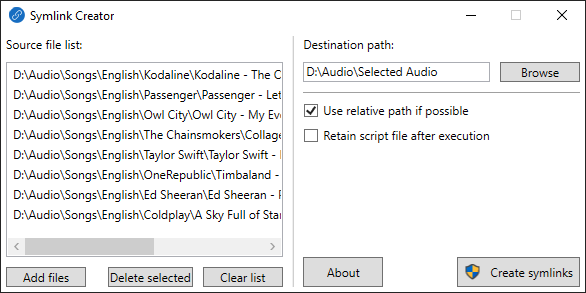
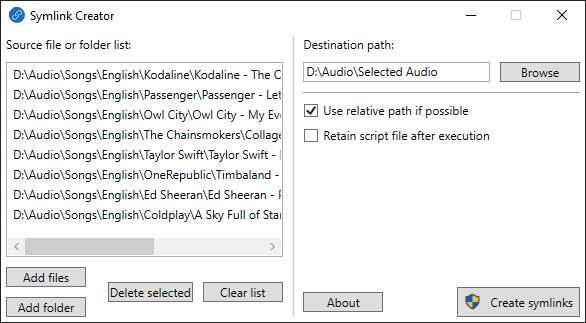
Folder symlink feature added
SymlinkCreator can now creates folder symlinks.

Changed region(s): [[0.0, 0.1229, 1.0, 1.0], [0.5222, 0.1229, 1.0, 0.4915], [0.0, 0.0, 0.9829, 0.0922]]

diff --git a/SymlinkCreator/ui/mainWindow/MainWindow.xaml b/SymlinkCreator/ui/mainWindow/MainWindow.xaml
@@ -10,16 +10,18 @@
         d:DataContext="{d:DesignData Type=local:MainWindowViewModel, IsDesignTimeCreatable=True}"
         Title="{x:Static core:ApplicationConfiguration.ApplicationName}"
         MinWidth="600"
-        MinHeight="250"
+        MinHeight="300"
         Width="600"
         Height="300">
     <Window.Resources>
         <Thickness x:Key="DefaultMargin">5</Thickness>
         <system:Double x:Key="DefaultMinButtonWidth">80</system:Double>
+        <system:Double x:Key="DefaultMinButtonHeight">20</system:Double>
 
         <Style TargetType="Button">
             <Setter Property="Margin" Value="{StaticResource DefaultMargin}" />
             <Setter Property="MinWidth" Value="{StaticResource DefaultMinButtonWidth}" />
+            <Setter Property="MinHeight" Value="{StaticResource DefaultMinButtonHeight}" />
         </Style>
 
         <Style TargetType="TextBlock">
@@ -53,10 +55,10 @@
                 <RowDefinition Height="Auto" />
             </Grid.RowDefinitions>
 
-            <TextBlock Grid.Row="0" Text="Source file list:" />
+            <TextBlock Grid.Row="0" Text="Source file or folder list:" />
 
-            <ListView Grid.Row="1" x:Name="SourceFileListView" ItemsSource="{Binding FileList}"
-                      AllowDrop="True" Drop="SourceFileListView_OnDrop">
+            <ListView Grid.Row="1" x:Name="SourceFileOrFolderListView" ItemsSource="{Binding FileOrFolderList}"
+                      AllowDrop="True" Drop="SourceFileOrFolderListView_OnDrop">
                 <ListView.ItemTemplate>
                     <DataTemplate>
                         <TextBlock Text="{Binding}" ToolTip="{Binding}" />
@@ -65,7 +67,16 @@
             </ListView>
 
             <DockPanel Grid.Row="2" LastChildFill="False">
-                <Button DockPanel.Dock="Left" Content="Add files" Click="AddButton_OnClick" />
+                <DockPanel.Resources>
+                    <Style TargetType="Button" BasedOn="{StaticResource {x:Type Button}}">
+                        <Setter Property="MaxHeight" Value="{StaticResource DefaultMinButtonHeight}" />
+                    </Style>
+                </DockPanel.Resources>
+
+                <StackPanel DockPanel.Dock="Left">
+                    <Button Content="Add files" Click="AddFilesButton_OnClick" />
+                    <Button Content="Add folder" Click="AddFolderButton_OnClick" />
+                </StackPanel>
 
                 <StackPanel DockPanel.Dock="Right" Orientation="Horizontal">
                     <Button Content="Delete selected" Click="DeleteSelectedButton_OnClick" />
@@ -122,7 +133,8 @@
                     </StackPanel>
                 </Button>
 
-                <Button Content="About" Click="AboutButton_OnClick" />
+                <Button Content="About" MaxHeight="{StaticResource DefaultMinButtonHeight}"
+                        Click="AboutButton_OnClick" />
             </DockPanel>
         </Grid>
     </Grid>

diff --git a/SymlinkCreator/ui/mainWindow/MainWindow.xaml.cs b/SymlinkCreator/ui/mainWindow/MainWindow.xaml.cs
@@ -49,7 +49,7 @@ namespace SymlinkCreator.ui.mainWindow
 
         #region control event handles
 
-        private void AddButton_OnClick(object sender, RoutedEventArgs e)
+        private void AddFilesButton_OnClick(object sender, RoutedEventArgs e)
         {
             OpenFileDialog fileDialog = new OpenFileDialog();
             fileDialog.Multiselect = true;
@@ -57,7 +57,20 @@ namespace SymlinkCreator.ui.mainWindow
 
             if (result == true)
             {
-                AddToSourceFileList(fileDialog.FileNames);
+                AddToSourceFileOrFolderList(fileDialog.FileNames);
+            }
+        }
+
+        private void AddFolderButton_OnClick(object sender, RoutedEventArgs e)
+        {
+            using (FolderBrowserDialog folderBrowserDialog = new FolderBrowserDialog())
+            {
+                DialogResult result = folderBrowserDialog.ShowDialog();
+
+                if (result == System.Windows.Forms.DialogResult.OK)
+                {
+                    AddToSourceFileOrFolderList(folderBrowserDialog.SelectedPath);
+                }
             }
         }
 
@@ -82,10 +95,10 @@ namespace SymlinkCreator.ui.mainWindow
             MainWindowViewModel mainWindowViewModel = this.DataContext as MainWindowViewModel;
             if (mainWindowViewModel == null) return;
 
-            List<string> selectedFileList = SourceFileListView.SelectedItems.Cast<string>().ToList();
-            foreach (var selectedItem in selectedFileList)
+            List<string> selectedFileOrFolderList = SourceFileOrFolderListView.SelectedItems.Cast<string>().ToList();
+            foreach (var selectedItem in selectedFileOrFolderList)
             {
-                mainWindowViewModel.FileList.Remove(selectedItem);
+                mainWindowViewModel.FileOrFolderList.Remove(selectedItem);
             }
         }
 
@@ -93,15 +106,15 @@ namespace SymlinkCreator.ui.mainWindow
         {
             MainWindowViewModel mainWindowViewModel = this.DataContext as MainWindowViewModel;
 
-            mainWindowViewModel?.FileList.Clear();
+            mainWindowViewModel?.FileOrFolderList.Clear();
         }
 
-        private void SourceFileListView_OnDrop(object sender, DragEventArgs e)
+        private void SourceFileOrFolderListView_OnDrop(object sender, DragEventArgs e)
         {
             if (e.Data.GetDataPresent(DataFormats.FileDrop))
             {
-                string[] droppedFileList = (string[]) e.Data.GetData(DataFormats.FileDrop);
-                AddToSourceFileList(droppedFileList);
+                string[] droppedFileOrFolderList = (string[]) e.Data.GetData(DataFormats.FileDrop);
+                AddToSourceFileOrFolderList(droppedFileOrFolderList);
             }
         }
 
@@ -129,7 +142,7 @@ namespace SymlinkCreator.ui.mainWindow
             if (mainWindowViewModel == null) return;
 
             SymlinkAgent symlinkAgent = new SymlinkAgent(
-                mainWindowViewModel.FileList,
+                mainWindowViewModel.FileOrFolderList,
                 mainWindowViewModel.DestinationPath,
                 mainWindowViewModel.ShouldUseRelativePath,
                 mainWindowViewModel.ShouldRetainScriptFile);
@@ -157,18 +170,28 @@ namespace SymlinkCreator.ui.mainWindow
 
         #region helper methods
 
-        private void AddToSourceFileList(IEnumerable<string> fileList)
+        private void AddToSourceFileOrFolderList(IEnumerable<string> fileOrFolderList)
         {
             MainWindowViewModel mainWindowViewModel = this.DataContext as MainWindowViewModel;
             if (mainWindowViewModel == null) return;
 
-            foreach (string file in fileList)
+            foreach (string fileOrFolder in fileOrFolderList)
             {
-                if (!mainWindowViewModel.FileList.Contains(file))
+                if (!mainWindowViewModel.FileOrFolderList.Contains(fileOrFolder))
                 {
-                    if (File.Exists(file))
-                        mainWindowViewModel.FileList.Add(file);
+                    mainWindowViewModel.FileOrFolderList.Add(fileOrFolder);
                 }
+            }
+        }
+
+        private void AddToSourceFileOrFolderList(string fileOrFolderPath)
+        {
+            MainWindowViewModel mainWindowViewModel = this.DataContext as MainWindowViewModel;
+            if (mainWindowViewModel == null) return;
+
+            if (!mainWindowViewModel.FileOrFolderList.Contains(fileOrFolderPath))
+            {
+                mainWindowViewModel.FileOrFolderList.Add(fileOrFolderPath);
             }
         }
 

diff --git a/SymlinkCreator/core/SymlinkAgent.cs b/SymlinkCreator/core/SymlinkAgent.cs
@@ -11,7 +11,7 @@ namespace SymlinkCreator.core
     {
         #region members
 
-        private readonly List<string> _sourceFileList;
+        private readonly List<string> _sourceFileOrFolderList;
         private string _destinationPath;
         private readonly bool _shouldUseRelativePath;
         private readonly bool _shouldRetainScriptFile;
@@ -23,10 +23,10 @@ namespace SymlinkCreator.core
 
         #region constructor
 
-        public SymlinkAgent(IEnumerable<string> sourceFileList, string destinationPath,
+        public SymlinkAgent(IEnumerable<string> sourceFileOrFolderList, string destinationPath,
             bool shouldUseRelativePath = true, bool shouldRetainScriptFile = false)
         {
-            this._sourceFileList = sourceFileList.ToList();
+            this._sourceFileOrFolderList = sourceFileOrFolderList.ToList();
             this._destinationPath = destinationPath;
             this._shouldUseRelativePath = shouldUseRelativePath;
             this._shouldRetainScriptFile = shouldRetainScriptFile;
@@ -59,7 +59,7 @@ namespace SymlinkCreator.core
             scriptExecutor.WriteLine(_splittedDestinationPath[0]);
             scriptExecutor.WriteLine("cd \"" + _destinationPath + "\"");
 
-            foreach (string sourceFilePath in _sourceFileList)
+            foreach (string sourceFilePath in _sourceFileOrFolderList)
             {
                 string[] splittedSourceFilePath = GetSplittedPath(sourceFilePath);
 
@@ -73,8 +73,12 @@ namespace SymlinkCreator.core
                     }
                 }
 
-                scriptExecutor.WriteLine("mklink \"" + splittedSourceFilePath.Last() + "\" \"" +
-                                         commandLineTargetPath + "\"");
+                scriptExecutor.Write("mklink ");
+                if (Directory.Exists(sourceFilePath))
+                    scriptExecutor.Write("/d ");
+
+                scriptExecutor.WriteLine("\"" + splittedSourceFilePath.Last() + "\" " +
+                                         "\"" + commandLineTargetPath + "\"");
             }
 
             scriptExecutor.ExecuteAsAdmin();

diff --git a/SymlinkCreator/ui/mainWindow/MainWindowViewModel.cs b/SymlinkCreator/ui/mainWindow/MainWindowViewModel.cs
@@ -9,7 +9,7 @@ namespace SymlinkCreator.ui.mainWindow
     {
         #region properties
 
-        public ObservableCollection<string> FileList { get; set; } = new ObservableCollection<string>();
+        public ObservableCollection<string> FileOrFolderList { get; set; } = new ObservableCollection<string>();
 
         private string _destinationPath;
         public string DestinationPath

diff --git a/SymlinkCreator/Properties/AssemblyInfo.cs b/SymlinkCreator/Properties/AssemblyInfo.cs
@@ -52,5 +52,5 @@ using System.Windows;
 // by using the '*' as shown below:
 // [assembly: AssemblyVersion("1.0.*")]
 
-[assembly: AssemblyVersion("1.0.1")]
-[assembly: AssemblyFileVersion("1.0.1")]
+[assembly: AssemblyVersion("1.1.0")]
+[assembly: AssemblyFileVersion("1.1.0")]

diff --git a/README.md b/README.md
@@ -4,19 +4,19 @@ SymlinkCreator is a GUI app for creating symbolic links (symlinks), and it is ba
 ## Use cases
 - Suppose, you have a collection of several songs sorted by artists and albums in your PC. You might want a separate collection of your most favorite songs which you will store in your mobile devices. In this scenario, the traditional shortcut option through Windows Explorer right-click context menu is not enough, because you cannot copy the actual file contents by copying the traditional shortcut files (*\*.lnk*). You might consider duplicating the files which you will store in your mobile devices. But it will waste your storage space of your PC. In this case, SymlinkCreator will come in handy. You can easily create the separate collection of songs and transfer them to your mobile devices, without wasting your PC's storage space.
 
-- Suppose, you have a special folder which is linked to your online storage like Google Drive. You might want some specific files to be backed up from other folders. A traditional shortcut file is not helpful here to back up those files. In this scenario, you can use SymlinkCreator for the backup purpose without duplicating those files in the special folder.
+- Suppose, you have a special folder which is linked to your online storage like Google Drive. You might want some specific files/folders to be backed up from other folders. A traditional shortcut file is not helpful here to back up those files. In this scenario, you can use SymlinkCreator for the backup purpose without duplicating those files/folders in the special folder.
 
 ## What SymlinkCreator does
-SymlinkCreator creates *symlinks* which is an NTFS feature. Unlink the traditional shortcut files (*\*.lnk*), symlinks do not have any *file size*. While symlinks may be called advanced shortcut files, but they appear to be real files. Unlike duplicated files, symlinks do not waste your storage space. Currently, SymlinkCreator only works for files, not folders. I might add support for folders in the future.
+SymlinkCreator creates *symlinks* which is an NTFS feature. Unlink the traditional shortcut files (*\*.lnk*), symlinks do not have any *file size*. While symlinks may be called advanced shortcut files, but they appear to be real files. Unlike duplicated files, symlinks do not waste your storage space. SymlinkCreator works for both files and folders.
 
 ## How SymlinkCreator works
 SymlinkCreator uses `mklink` command to create symlinks. SymlinkCreator first creates a script file which contains `mklink` command lines, and execute it. SymlinkCreator works in Windows Vista, Windows 7 and Windows 10. It does not work in Windows XP because of the lack of `mklink` command.
 
 ## How to use SymlinkCreator
 ![Screenshot](SymlinkCreator/_ReadMe/Screenshot.png "Screenshot of SymlinkCreator")
-- At the `Source file list`, you can add files which will be copied in `Destination path` as symlinks.
+- At the `Source file or folder list`, you can add files or folders which will be copied in `Destination path` as symlinks.
 - Using SymlinkCreator's drag-n-drop feature, you can easily create multiple symlinks at a time.
-- Tick `Use relative path if possible` option to use relative paths while creating symlinks. In this case, relative paths will be used if both source files and destination files are in the same drive.
+- Tick `Use relative path if possible` option to use relative paths while creating symlinks. In this case, relative paths will be used if both source files/folders and destination files/folders are in the same drive.
 - Tick `Retain script file after execution` option if you want to save the script file for later use like logging purpose.
 
 ## Why SymlinkCreator needs administrative rights
